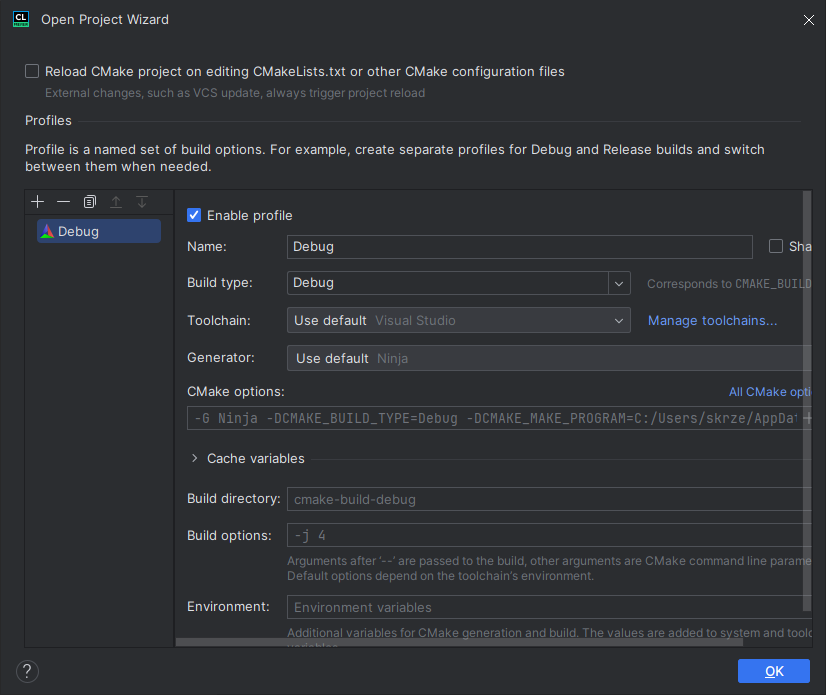
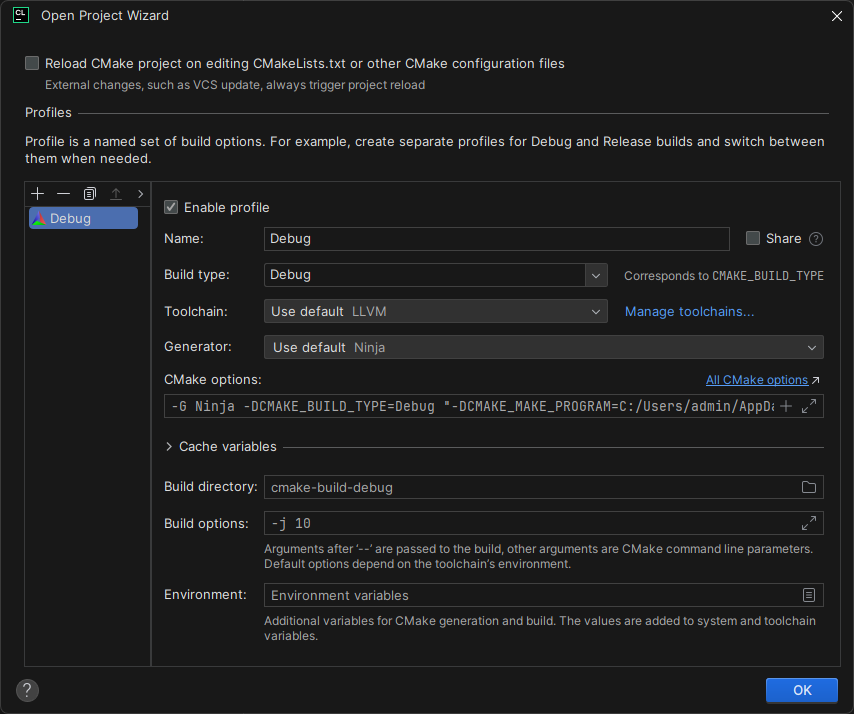
update tutorial for clion

Changed region(s): [[0.0, 0.0, 1.0, 1.0], [0.0303, 0.9367, 0.0605, 0.9669]]

diff --git a/getting-started/ide-setup.md b/getting-started/ide-setup.md
@@ -128,43 +128,50 @@ If there are errors similar to VS Code (such as `#include <Geode/modify/MenuLaye
 
 # CLion
 
-No additional plugins are needed - the only thing you need to do is to set the CMake options correctly. When you open your mod's directory in CLion for the first time, you'll be met with an Open Project Wizard:
+* [CLion on Windows](#clion-on-windows)
+* [CLion on Linux](#clion-on-linux)
+
+## CLion on Windows
+
+No additional plugins are needed - the only thing you need to do is to configure your toolchain correctly. When you open your mod's directory in CLion for the first time, you'll be met with an Open Project Wizard:
 
 ![Image showing the CLion Open Project Wizard](/assets/clion_openprojectwizard.png)
 
-Here you need to make sure that:
+If this is the first time you're launching CLion, click the "Manage toolchains..." button, which will open a window where you can add a new toolchain.
 
-1. Build type is set to `Release` or `RelWithDebInfo`; it cannot be Debug
-2. Toolchain is set to *Visual Studio*
-3. Generator is set to *Visual Studio 17 2022* or newer
-4. Build directory is set to *build*
+Here's an example of how to set up Visual Studio toolchain:
+
+![Image showing configured Visual Studio toolchain in CLion](/assets/clion_toolchainmsvc.png)
+
+And here's an example of how to set up Clang toolchain:
+
+![Image showing configured Clang toolchain in CLion](/assets/clion_toolchainllvm.png)
+
+After that, in the Open Project Wizard, you need to make sure that:
+
+1. Build type is set to `Release` or `RelWithDebInfo` (we recommend `RelWithDebInfo`, since `Debug` might cause obscure crashes)
+2. Toolchain is set to *Visual Studio* or *Clang/LLVM*
+3. Generator is set to *Visual Studio 17 2022* or *Ninja* (if you have it installed)
 
 In the end it should look like this:  
 
 ![Image showing the CLion Open Project Wizard set up for Geode](/assets/clion_openprojectwizardsetup.png)
 
-Now you can press OK and CMake will run for the first time. The setup **will fail** until you build the project for the first time. In order to do that, go to the top right corner of the window where you'll see a dropdown saying `Add Configuration`.
+Now you can press OK and CMake will run for the first time. Wait until it finishes, and you should see a dropdown in the top right corner of the window that says `NameOfTheMod` (or whatever you called your project).
+Click on it, and pick `NameOfTheMod_PACKAGE` instead, which will trigger post build steps and package/install the mod to Geometry Dash.
 
-![Image showing the CLion Add Configuration dropdown](/assets/clion_addconfiguration.png)
+![Image showing the CLion Configuration dropdown](/assets/clion_addconfiguration.png)
 
-Click it and choose `Edit Configurations` and you'll be met with the Run/Debug Configurations window. Inside of it, click the plus button in the top left corner of the window and choose `CMake Application` from the popup:
-
-![Image showing the CLion Run/Debug Configurations window](/assets/clion_rundebugwindow.png)
-
-In the created configuration, click the `Target` dropdown and choose `All Targets`. You can also change the name to something else than "Unnamed".  
-
-![Image showing the CLion Run/Debug Configurations window with a configuration set up to compile the mod](/assets/clion_rundebugsetup.png)
-
-Once that's done, you can click Apply and then OK. If it hasn't already, wait for CMake to finish its run. It might look something like this, with a line at the end saying `[Failed to reload]`.
-
-![Image showing the failed CMake run output](/assets/clion_cmakerunfailed.png)
-
-Now click the hammer icon in the top right corner next to build the mod for the first time - **make sure that the dropdowns next to it say `RelWithDebInfo` and `Build Mod`** (or however you called your build task in the step before):
+Now click the hammer icon in the top right corner next to build the mod:
 
 ![Image showing the build button in CLion](/assets/clion_buildmod.png)
 
-The build should end with a message saying `Build finished` and (assuming you ran `geode config setup` before) the mod should now be installed to Geometry Dash. In order to make all the IDE features work correctly, reload CMake now, this run should end successfully with a message saying `[Finished]` at the end: 
+The build should end with a message saying `Build finished` and (assuming you ran `geode config setup` before) the mod should now be installed to Geometry Dash.
+
+Don't forget to reload CMake after you add new files to the project.
 
 ![Image showing how to rerun CMake in CLion](/assets/clion_reloadcmake.png)
 
-Don't forget to reload CMake after you add new files to the project.
+## CLion on Linux
+
+TODO
